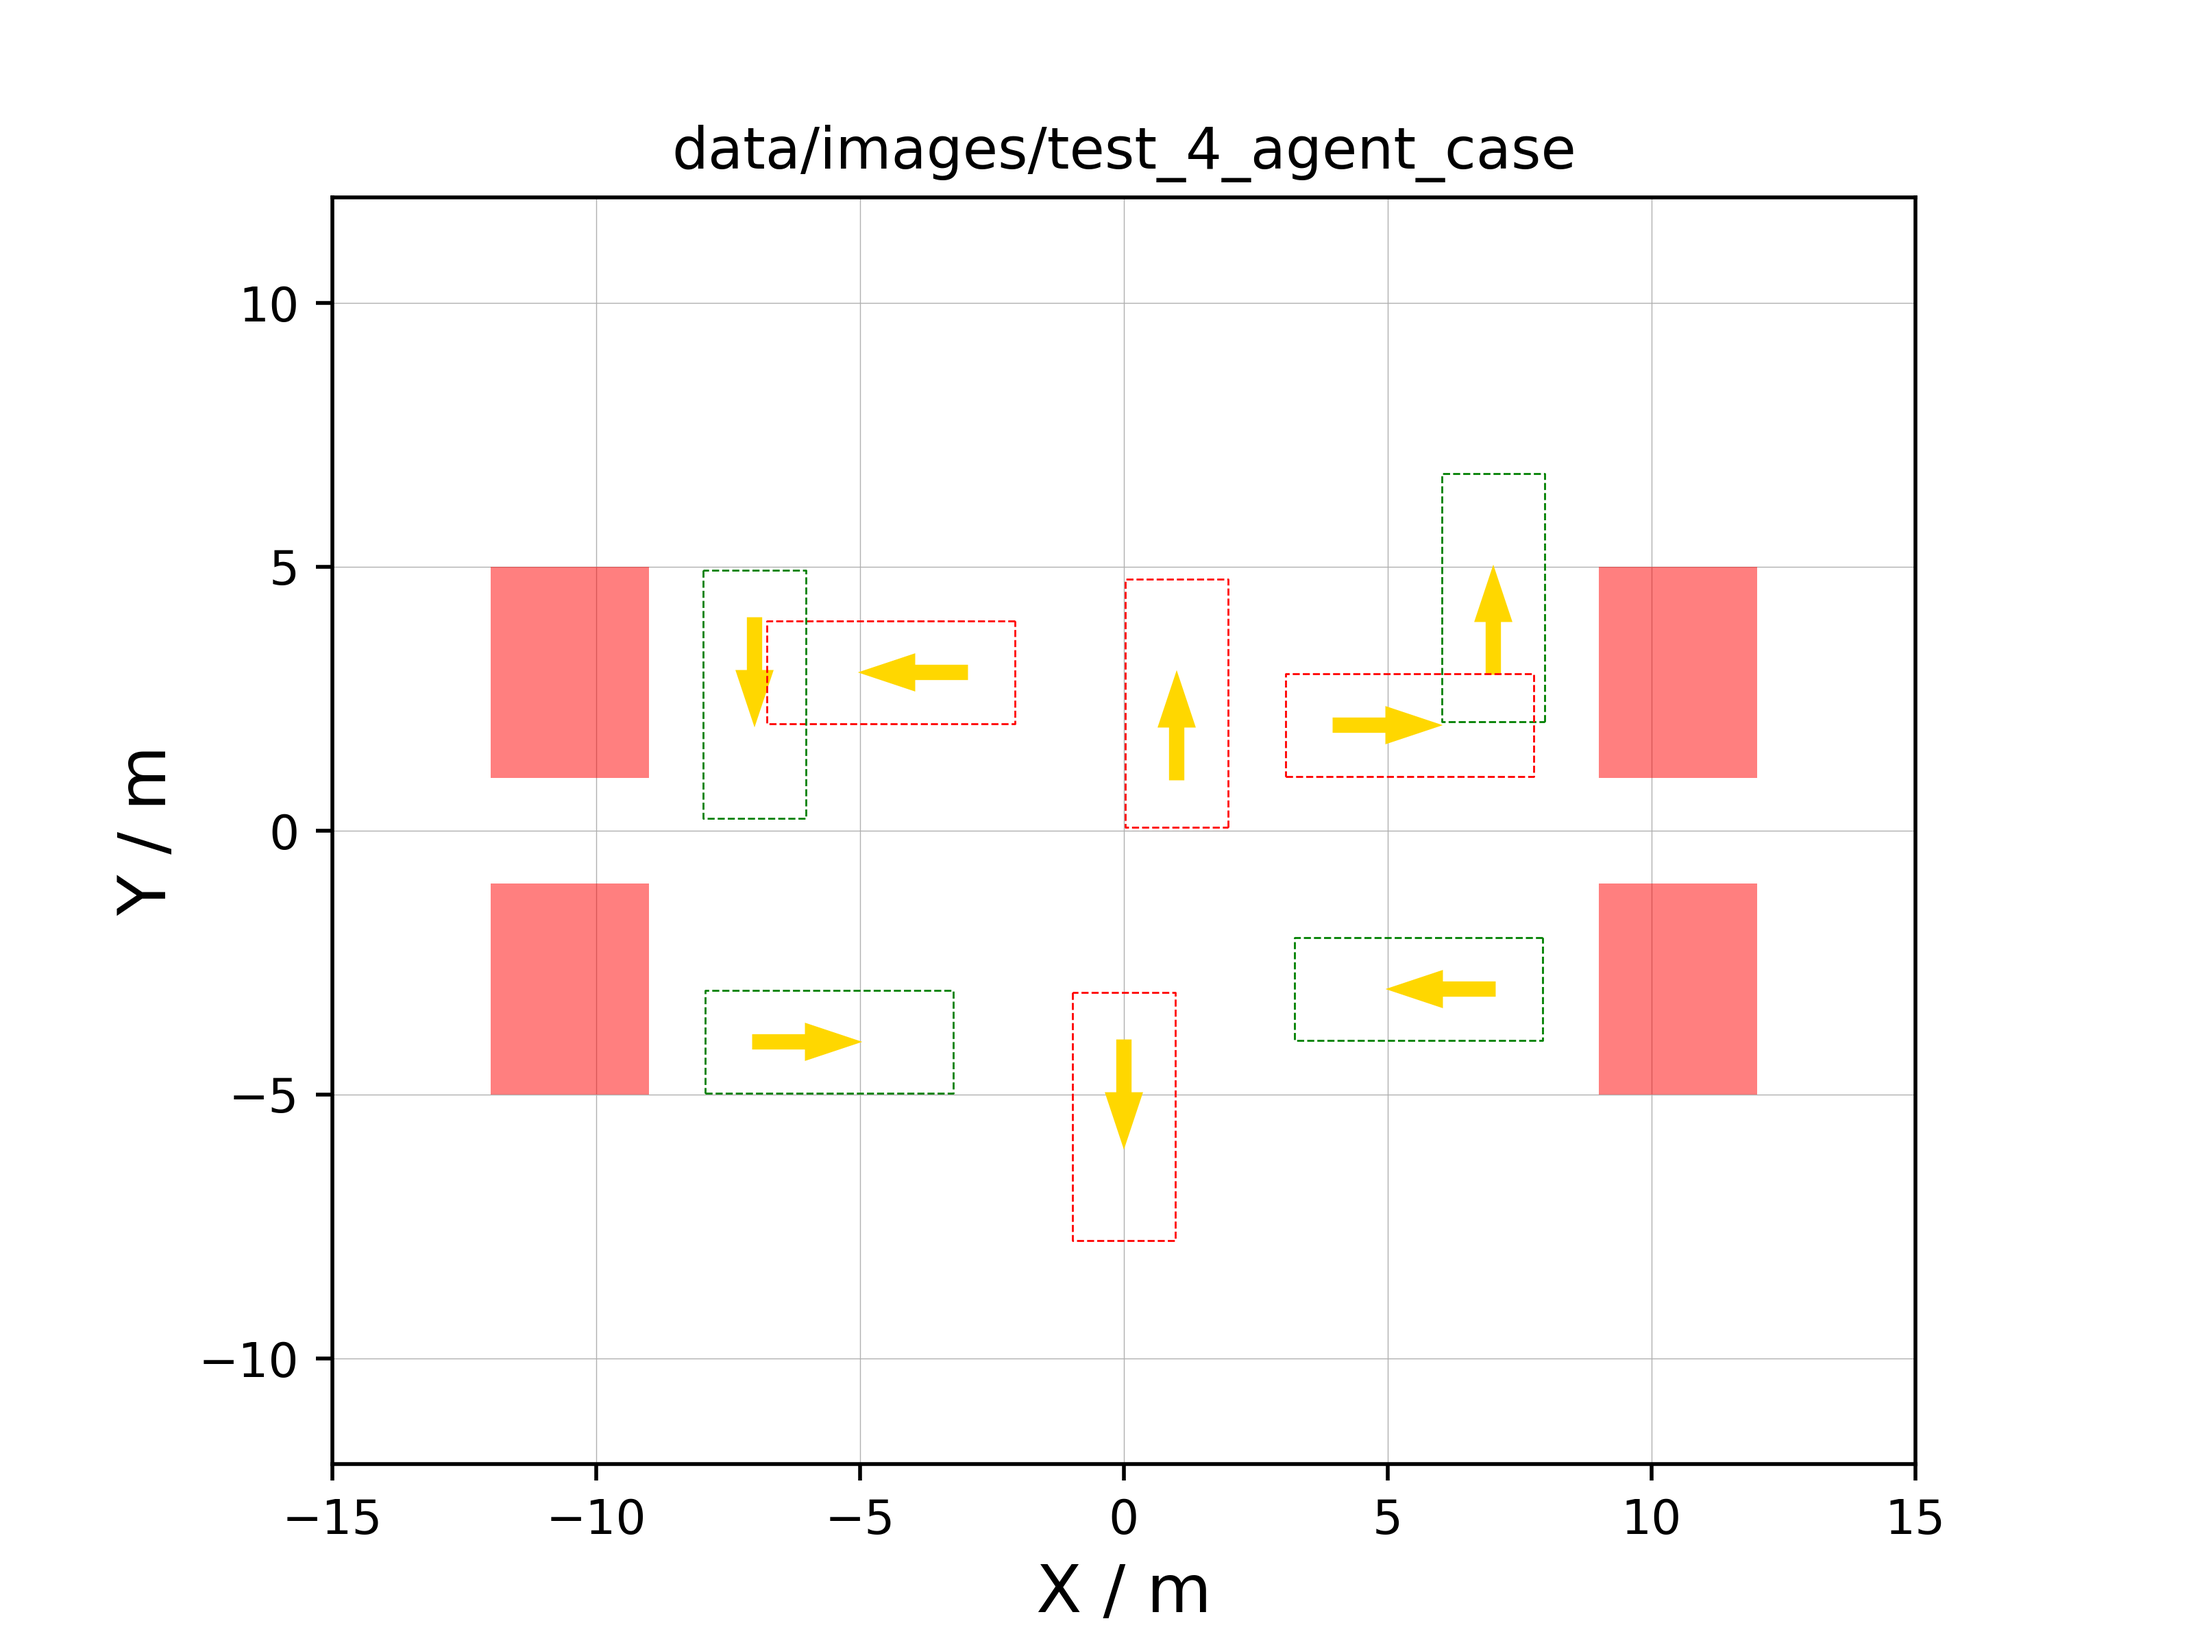
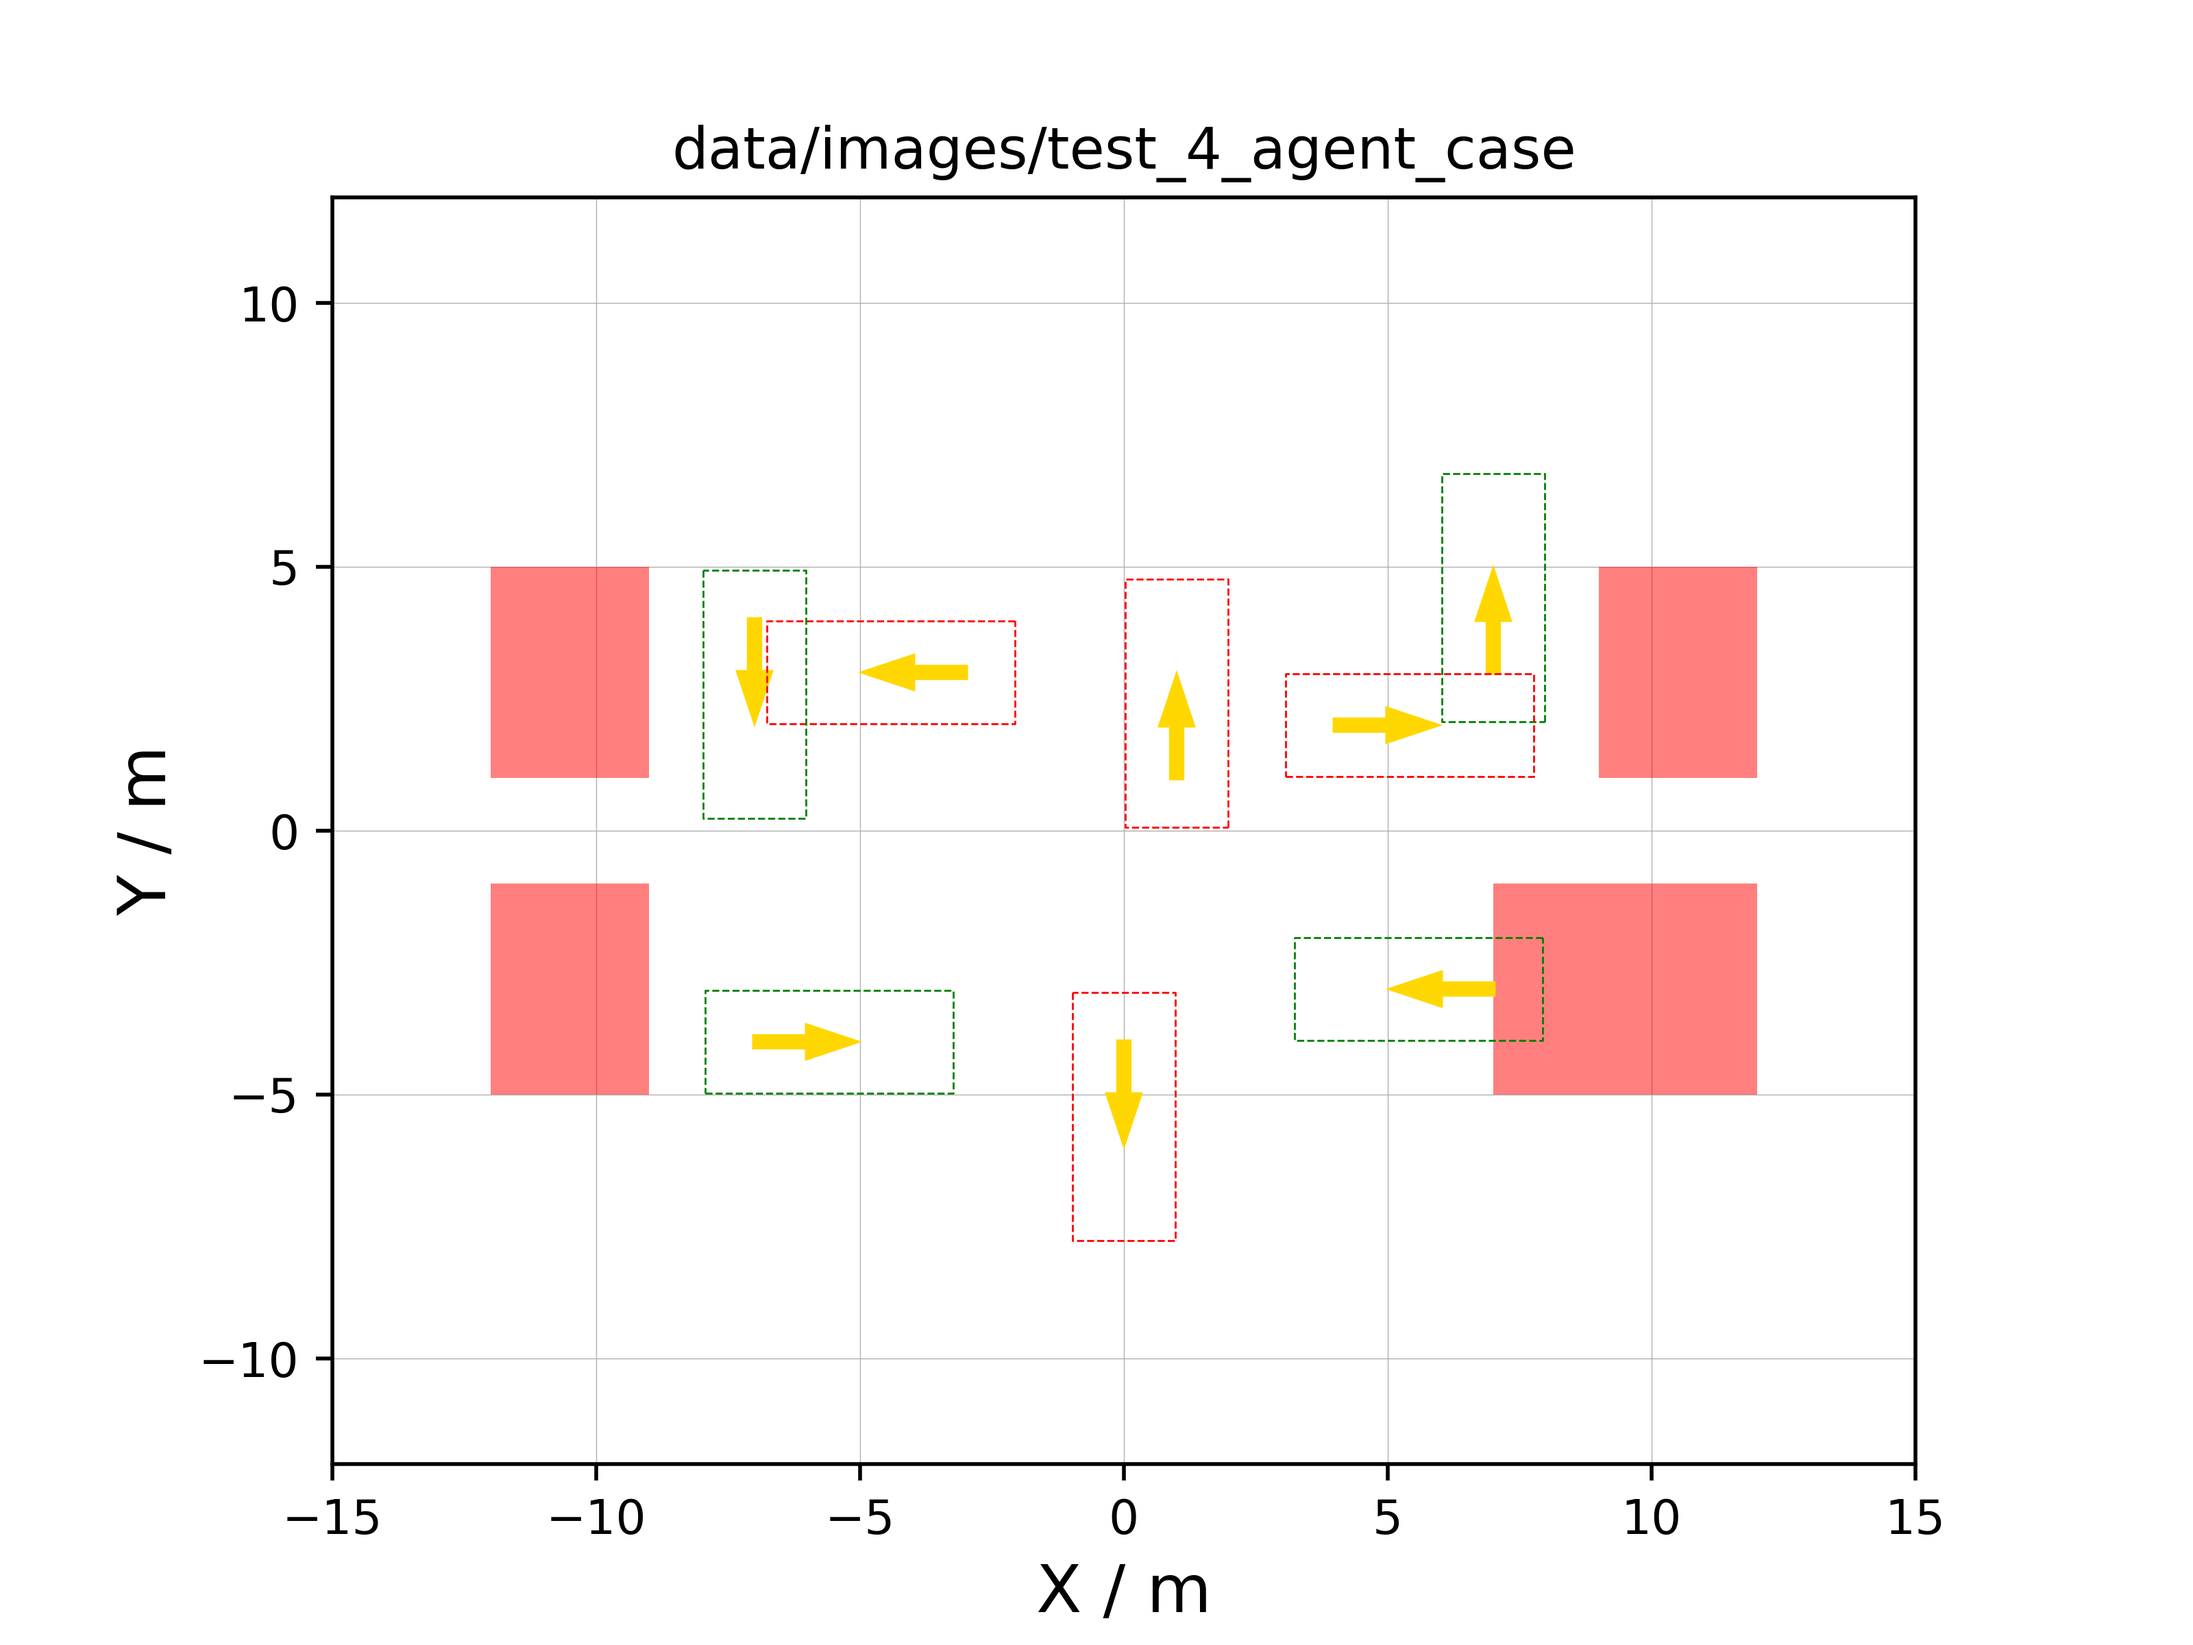
found an obstacle collision detection failure case

Changed region(s): [[0.6562, 0.5312, 0.75, 0.6875]]

diff --git a/main.py b/main.py
@@ -20,8 +20,8 @@ if __name__ == "__main__":
     case_params = scenario.read("data/cases/test_4_agent_case.csv")
 
     num_agents = case_params["num_cars"]
-    num_envs = 10_000 # 10
-    Ts = 0.1; Ti=0.0; Tf=10_000.0 # 5.0
+    num_envs = 10 # 10 # 10000
+    Ts = 0.1; Ti=0.0; Tf=5.0 # 5.0 # 10_000.0
     times = jnp.arange(Ti, Tf, Ts)
     num_iter = len(times)
 
@@ -57,33 +57,33 @@ if __name__ == "__main__":
     collision_mask = collision_jit(x)
     collision_mask = collision_jit(x)
 
-    # traj = []
-    # not_collisions = []
-    # for _ in range(num_iter):
-    #     collision_mask = collision_jit(x)
-    #     not_collisions.append(jnp.copy(collision_mask[-1]))
-    #     u = actor_jit(x, jr.split(_rng, num=[num_envs, num_agents])); _rng, rng = jr.split(rng)
-    #     x += xdot_jit(x, u_control) * Ts * collision_mask[:, :, None] # if collided freeze
-    #     traj.append(jnp.copy(x[-1]))
-    #     c = critic_jit(u)
-    # traj = jnp.stack(traj)
-    # collisions = ~jnp.vstack(not_collisions)
-    # animator = Animator(car_params, case_params, traj, times, collisions)
-    # animator.animate()
-
-    def scan_body(carry, _):
-        x, _rng, rng = carry
+    traj = []
+    not_collisions = []
+    for _ in range(num_iter):
         collision_mask = collision_jit(x)
+        not_collisions.append(jnp.copy(collision_mask[-1]))
         u = actor_jit(x, jr.split(_rng, num=[num_envs, num_agents])); _rng, rng = jr.split(rng)
         x += xdot_jit(x, u_control) * Ts * collision_mask[:, :, None] # if collided freeze
+        traj.append(jnp.copy(x[-1]))
         c = critic_jit(u)
-        return (x, _rng, rng), None  
+    traj = jnp.stack(traj)
+    collisions = ~jnp.vstack(not_collisions)
+    animator = Animator(car_params, case_params, traj, times, collisions)
+    animator.animate()
 
-    tic = time()
-    (x, _, _), _ = jax.lax.scan(scan_body, (x, _rng, rng), None, length=num_iter)
-    toc = time()
-    scan_time = toc-tic
-    print(toc-tic)
+    # def scan_body(carry, _):
+    #     x, _rng, rng = carry
+    #     collision_mask = collision_jit(x)
+    #     u = actor_jit(x, jr.split(_rng, num=[num_envs, num_agents])); _rng, rng = jr.split(rng)
+    #     x += xdot_jit(x, u_control) * Ts * collision_mask[:, :, None] # if collided freeze
+    #     c = critic_jit(u)
+    #     return (x, _rng, rng), None  
+
+    # tic = time()
+    # (x, _, _), _ = jax.lax.scan(scan_body, (x, _rng, rng), None, length=num_iter)
+    # toc = time()
+    # scan_time = toc-tic
+    # print(toc-tic)
 
     print('fin')
 

diff --git a/scenario.py b/scenario.py
@@ -211,8 +211,8 @@ if __name__ == "__main__":
             [-9.0, -5.0]
         ],
         [  # Bottom-right parking lot (rectangular area)
-            [9.0, -5.0],
-            [9.0, -1.0],
+            [7.0, -5.0],
+            [7.0, -1.0],
             [12.0, -1.0],
             [12.0, -5.0]
         ]
